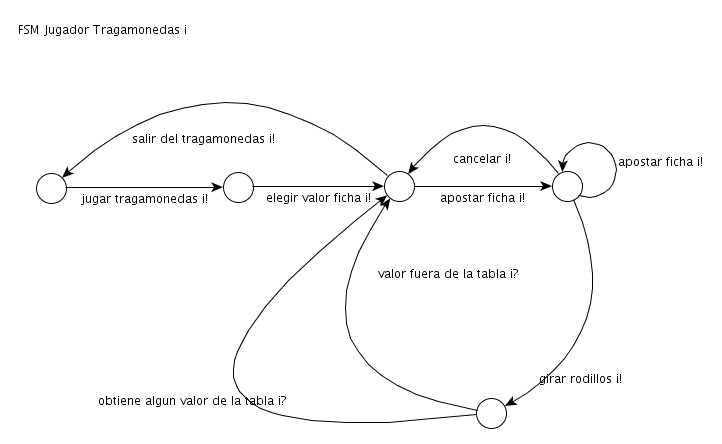
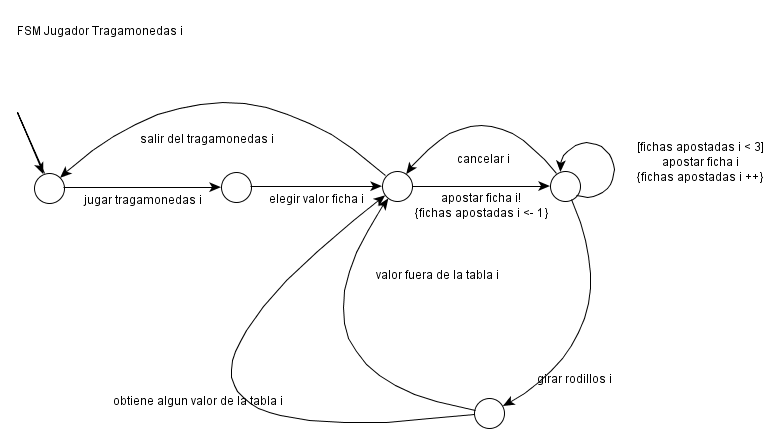
Ahora hay una sola maquina para el tragamonedas

diff --git a/tp1/informe/maquinas.tex b/tp1/informe/maquinas.tex
@@ -9,11 +9,10 @@ Tanto con para Craps como para el Tragamonedas, intentamos modelar como los juga
 
 \subsubsection{Tragamonedas}
 
-En los gr'aficos veremos que opciones tiene un jugador en el juego de tragamonedas.
+En los gr'aficos veremos la din'amica y qu'e opciones tiene un jugador en el juego de tragamonedas.
 
 Notar que si bien deber'ia de ser posible elegir en que mesa jugar a que juego, para el caso del tragamonedas al jugador $i$ se le asigna la mesa $i$. Esto se debe a que no es posible elegir jugar en una mesa ya existente, pues 'esta est'a ocupada. Adem'as al abandonarla la misma ser'a cerrada, lo que imposibilita el poder elegirla.
 
-\imagen{FSM_Juego_tragamonedas_i.png}{FSM Mesa tragamonedas i}{0.5}
 \imagen{FSM_Jugador_tragamonedas_i.png}{FSM Jugador tragamonedas i}{0.5}
 \clearpage
 

diff --git a/tp1/informe/glosario.tex b/tp1/informe/glosario.tex
@@ -79,9 +79,7 @@
 \begin{tabular}{p{3cm}|p{8cm}}
         \multicolumn {2}{c}{\negrita{TRAGAMONEDAS}} \\
         \hline
-        \italica{Mesa i} & din'amica de la mesa i donde juega el jugador i \\
-        \hline
-        \italica{Jugador i} & din'amica del jugador i \\
+        \negrita{Etiqueta de la transici'on} & \negrita{Acci'on} \\
         \hline
         obtiene algun valor de la tabla i & el valor arrojado por los rodillos es una combinaci'on v'alida dentro de la tabla de premios. Basado en las reglas del juego provistas por los clientes. \\
         \hline
